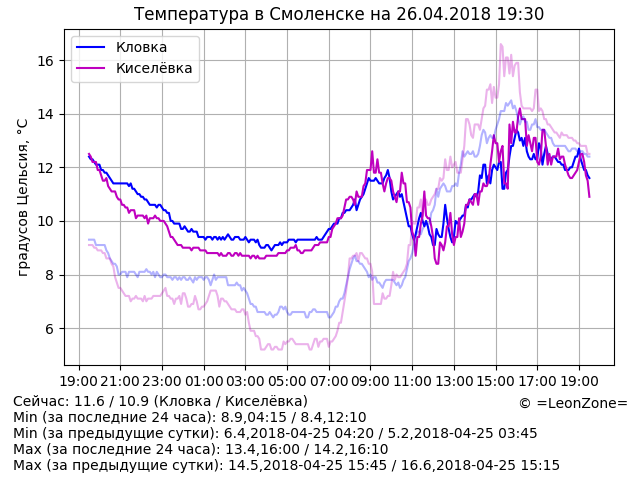
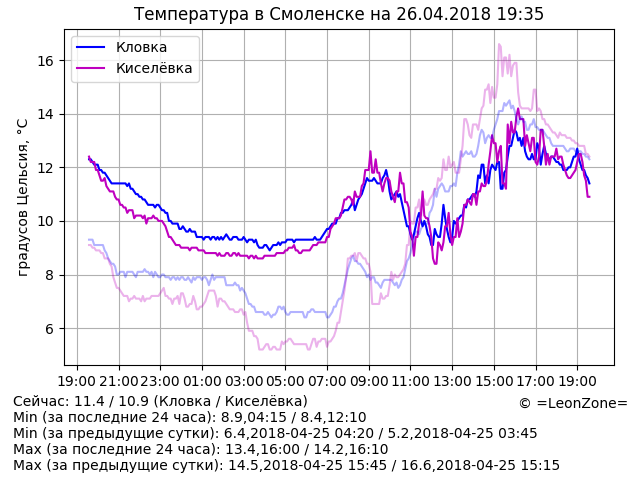
Update data

Changed region(s): [[0.125, 0.0625, 0.9375, 0.75], [0.0938, 0.7812, 0.9375, 0.8438]]

diff --git a/index.html b/index.html
@@ -14,7 +14,7 @@
 	<p align="center"><script>document.write("<img src=\"graph.png?rnd="+Math.random()+"\" alt=\"Температура в Смоленске\" align=\"middle\" width=\"640\" height=\"480\" />")</script>
 	<p hidden="true">
 <!-- textinfo -->
-Сейчас: 11.6 / 10.9 (Кловка / Киселёвка)
+Сейчас: 11.4 / 10.9 (Кловка / Киселёвка)
 Min (за последние 24 часа): 8.9,04:15 / 8.4,12:10
 Min (за предыдущие сутки): 6.4,2018-04-25 04:20 / 5.2,2018-04-25 03:45
 Max (за последние 24 часа): 13.4,16:00 / 14.2,16:10
